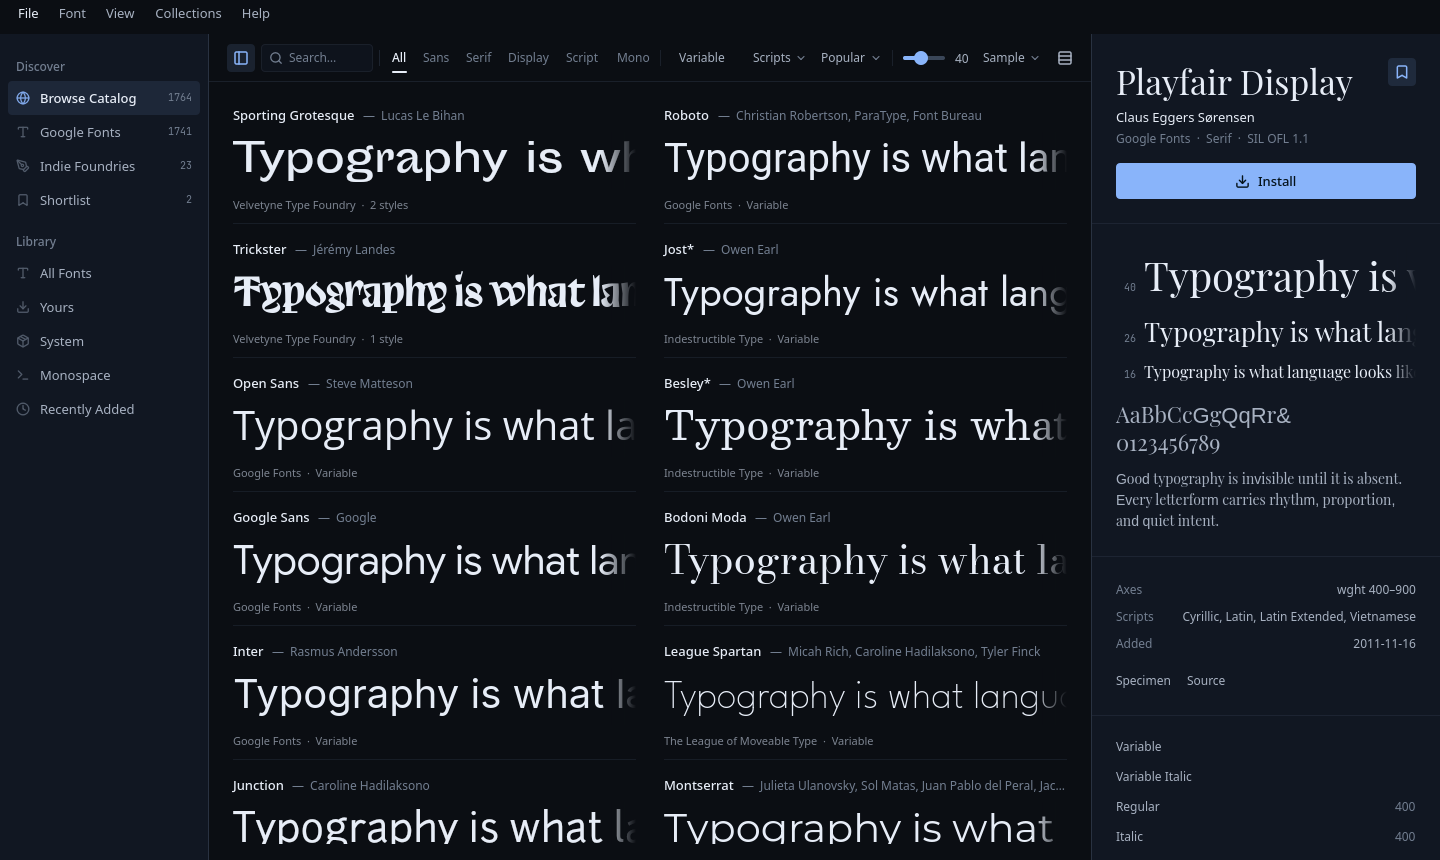
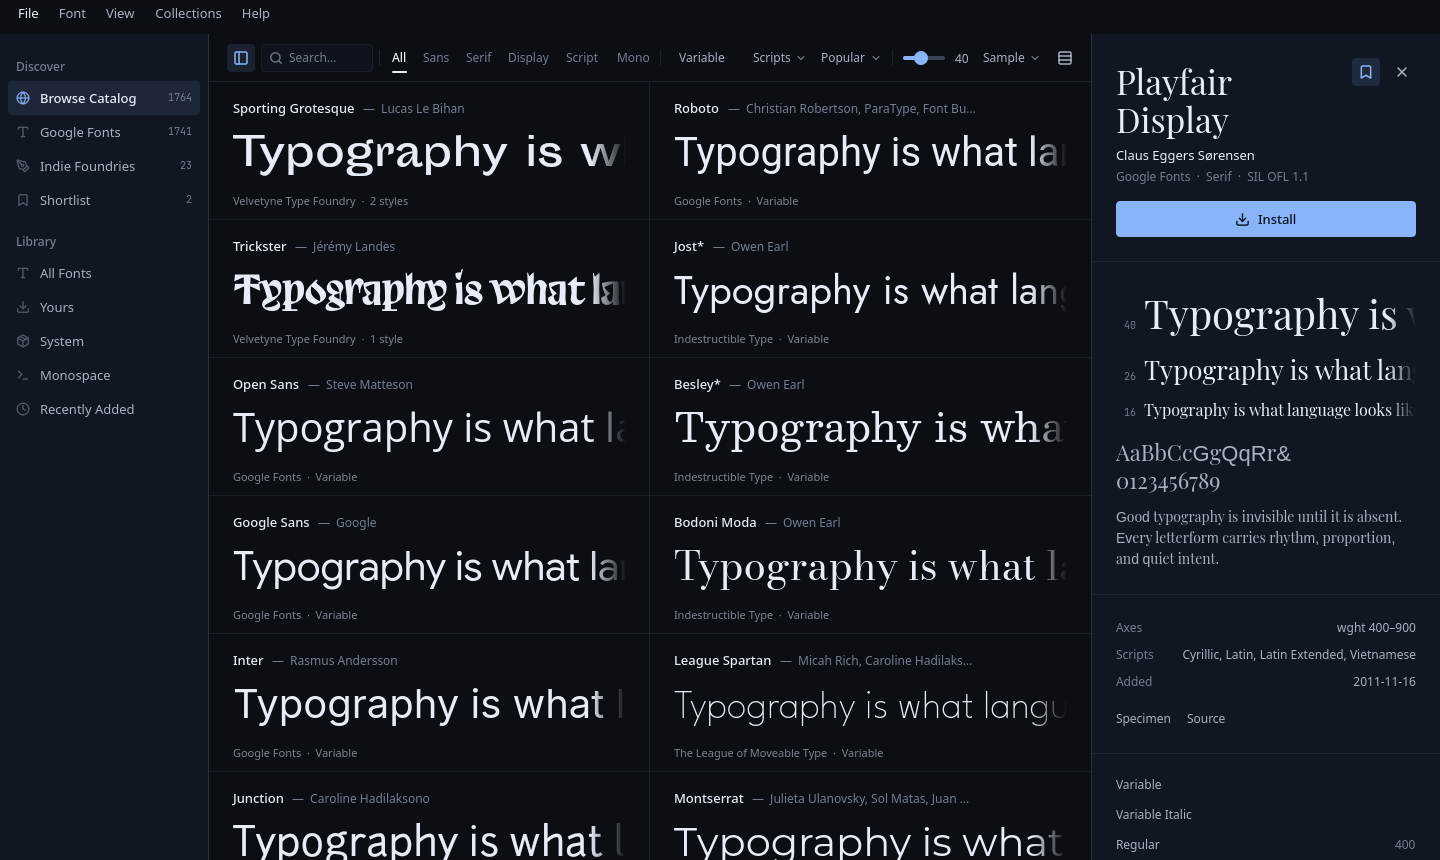
Eliminate hover/selection jump, collapse empty inspector, edge-to-edge cells, deduplicate weights

diff --git a/src/CatalogView.qml b/src/CatalogView.qml
@@ -373,27 +373,21 @@ Rectangle {
             }
         }
 
-        // ── Editorial specimen sheet (hairline-ruled, shared baselines) ─────
+        // ── Editorial specimen grid (edge-to-edge Swiss cells, zero hover jump) ─
         Item {
             Layout.fillWidth: true
             Layout.fillHeight: true
 
-            readonly property int gutter: 28
-
             GridView {
                 id: grid
                 anchors.fill: parent
-                anchors.leftMargin: Theme.s5 - parent.gutter / 2
-                anchors.rightMargin: Theme.s5 - parent.gutter / 2
-                anchors.topMargin: Theme.s2
-                anchors.bottomMargin: Theme.s4
                 clip: true
                 model: catalog.model
                 readonly property int columns: root.layoutMode === "list" ? 1 : Math.max(1, Math.floor(width / 430))
                 cellWidth: Math.floor(width / columns)
                 cellHeight: root.layoutMode === "list"
                     ? Math.max(144, Math.round(root.previewSize * 1.15 * 2 + 80))
-                    : Math.max(134, Math.round(root.previewSize * 1.15 + 88))
+                    : Math.max(138, Math.round(root.previewSize * 1.15 + 92))
                 cacheBuffer: cellHeight
                 boundsBehavior: Flickable.StopAtBounds
                 ScrollBar.vertical: ScrollBar {}
@@ -430,50 +424,49 @@ Rectangle {
                     }
                     readonly property bool faceReady: faceLoader.item !== null && faceLoader.item.status === FontLoader.Ready
                     readonly property bool selected: catalog.selectedId === cell.id
+                    readonly property bool hasRightNeighbor: (cell.index % grid.columns) < (grid.columns - 1)
 
-                    // Quiet hairline-ruled editorial cell (no rounded card box)
+                    // Edge-to-edge cell surface: calm tint on hover/selection, no borders shifting layout
                     Rectangle {
                         id: surface
                         anchors.fill: parent
-                        anchors.leftMargin: 14
-                        anchors.rightMargin: 14
-                        color: cell.selected ? Theme.withAlpha(Theme.textPrimary, 0.045)
-                             : cellHover.hovered ? Theme.withAlpha(Theme.textPrimary, 0.025) : "transparent"
+                        color: cell.selected ? Theme.withAlpha(Theme.accent, 0.08)
+                             : cellHover.hovered ? Theme.withAlpha(Theme.textPrimary, 0.028) : "transparent"
 
                         Behavior on color { ColorAnimation { duration: Theme.dFast } }
 
-                        // Subtle left accent bar only when selected
-                        Rectangle {
-                            visible: cell.selected
-                            anchors.left: parent.left
-                            anchors.top: parent.top
-                            anchors.bottom: parent.bottom
-                            anchors.topMargin: Theme.s4
-                            anchors.bottomMargin: Theme.s4
-                            width: 2
-                            color: Theme.accent
-                        }
-
-                        // Hairline rule at bottom
+                        // Edge-to-edge bottom hairline
                         Rectangle {
                             anchors.left: parent.left
                             anchors.right: parent.right
                             anchors.bottom: parent.bottom
                             height: Theme.hairline
-                            color: cell.selected ? Theme.withAlpha(Theme.borderStrong, 0.8) : Theme.withAlpha(Theme.border, 0.42)
+                            color: Theme.withAlpha(Theme.border, 0.45)
+                        }
+
+                        // Edge-to-edge vertical cell divider between columns
+                        Rectangle {
+                            visible: cell.hasRightNeighbor
+                            anchors.right: parent.right
+                            anchors.top: parent.top
+                            anchors.bottom: parent.bottom
+                            width: Theme.hairline
+                            color: Theme.withAlpha(Theme.border, 0.45)
                         }
 
                         HoverHandler { id: cellHover }
                         TapHandler { onTapped: catalog.selectFamily(cell.id) }
 
-                        // Header: single baseline with Family — Designer
+                        // Fixed-height header so hover actions never cause vertical jump
                         RowLayout {
                             id: cellHeader
                             anchors.left: parent.left
                             anchors.right: parent.right
                             anchors.top: parent.top
-                            anchors.leftMargin: cell.selected ? Theme.s3 : 0
-                            anchors.topMargin: Theme.s4
+                            anchors.leftMargin: Theme.s5
+                            anchors.rightMargin: Theme.s4
+                            anchors.topMargin: Theme.s3
+                            height: 28
                             spacing: Theme.s2
 
                             Text {
@@ -483,7 +476,7 @@ Rectangle {
                                 font.family: Theme.fontFamily
                                 font.pixelSize: Theme.fsControl
                                 font.weight: Font.Medium
-                                Layout.alignment: Qt.AlignBaseline
+                                Layout.alignment: Qt.AlignVCenter
                             }
 
                             Text {
@@ -495,16 +488,19 @@ Rectangle {
                                 color: Theme.textMuted
                                 font.family: Theme.fontFamily
                                 font.pixelSize: Theme.fsLabel
-                                Layout.alignment: Qt.AlignBaseline
+                                Layout.alignment: Qt.AlignVCenter
                             }
 
-                            // Hover/selected actions only — calm gallery at rest
+                            // Opacity-only reveal so text never reflows or jumps on hover
                             RowLayout {
                                 spacing: Theme.s1
-                                visible: cellHover.hovered || cell.selected || cell.installed || cell.shortlisted || cell.installing
+                                opacity: (cellHover.hovered || cell.selected || cell.installed || cell.shortlisted || cell.installing) ? 1.0 : 0.0
+                                enabled: opacity > 0
+                                Behavior on opacity { NumberAnimation { duration: Theme.dFast } }
 
                                 ToolButton {
-                                    visible: cellHover.hovered || cell.selected || cell.shortlisted
+                                    opacity: (cellHover.hovered || cell.selected || cell.shortlisted) ? 1.0 : 0.0
+                                    enabled: opacity > 0
                                     icon.name: "bookmark"
                                     checked: cell.shortlisted
                                     onClicked: catalog.toggleShortlist(cell.id)
@@ -513,7 +509,7 @@ Rectangle {
                                 }
 
                                 Icon {
-                                    visible: cell.installed && !cellHover.hovered && !cell.selected
+                                    visible: cell.installed
                                     name: "check"
                                     size: 14
                                     color: Theme.success
@@ -521,10 +517,11 @@ Rectangle {
 
                                 Button {
                                     objectName: "cardInstall_" + cell.id
-                                    visible: (cellHover.hovered || cell.selected || cell.installing) && !cell.installed
+                                    visible: !cell.installed
+                                    opacity: (cellHover.hovered || cell.selected || cell.installing) ? 1.0 : 0.0
+                                    enabled: opacity > 0 && !cell.installing
                                     flat: true
                                     implicitHeight: 24
-                                    enabled: !cell.installing
                                     text: cell.installing ? qsTr("Installing…") : qsTr("Install")
                                     font.pixelSize: Theme.fsLabel
                                     onClicked: catalog.installFamily(cell.id, true, [])
@@ -540,12 +537,13 @@ Rectangle {
                             anchors.right: parent.right
                             anchors.top: cellHeader.bottom
                             anchors.bottom: cellFooter.top
-                            anchors.leftMargin: cell.selected ? Theme.s3 : 0
-                            anchors.topMargin: Theme.s2
+                            anchors.leftMargin: Theme.s5
+                            anchors.rightMargin: Theme.s5
+                            anchors.topMargin: Theme.s1
                             anchors.bottomMargin: Theme.s2
                             clip: true
 
-                            // Exact shared baseline coordinate for every card in a row
+                            // Exact shared baseline coordinate for every cell in a row
                             Item {
                                 id: sharedBaseline
                                 anchors.left: parent.left
@@ -593,18 +591,19 @@ Rectangle {
                                 gradient: Gradient {
                                     orientation: Gradient.Horizontal
                                     GradientStop { position: 0.0; color: "transparent" }
-                                    GradientStop { position: 1.0; color: Theme.windowBg }
+                                    GradientStop { position: 1.0; color: cell.selected ? Qt.tint(Theme.windowBg, Theme.withAlpha(Theme.accent, 0.08)) : Theme.windowBg }
                                 }
                             }
                         }
 
-                        // Quiet single-line provenance footer (legible 11px)
+                        // Quiet single-line provenance footer
                         Text {
                             id: cellFooter
                             anchors.left: parent.left
                             anchors.right: parent.right
                             anchors.bottom: parent.bottom
-                            anchors.leftMargin: cell.selected ? Theme.s3 : 0
+                            anchors.leftMargin: Theme.s5
+                            anchors.rightMargin: Theme.s5
                             anchors.bottomMargin: Theme.s3
                             text: (cell.source === "google" ? "Google Fonts" : cell.sourceLabel)
                                   + "  ·  "

diff --git a/src/Main.qml b/src/Main.qml
@@ -106,6 +106,7 @@ ApplicationWindow {
     Shortcut { sequence: "Escape"; context: Qt.ApplicationShortcut; enabled: !win.dialogOpen
                onActivated: {
                    if (backend.staged || backend.staging) { backend.clearStage(); backend.selectFirst(); return }
+                   if (win.inDiscover && catalog.selectedId !== "") { catalog.selectFamily(""); return }
                    if (backend.filter !== "") { backend.filter = ""; searchField.text = ""; return }
                    if (win.textEntryFocused) rail.forceActiveFocus()
                } }
@@ -406,7 +407,7 @@ ApplicationWindow {
             }
             Rectangle { visible: win.sidebarOpen; implicitWidth: Theme.hairline; Layout.fillHeight: true; color: Theme.border }
 
-            // ── Discover mode: Open-source catalog + Attribution inspector ─
+            // ── Discover mode: Open-source catalog + collapsible inspector ─
             CatalogView {
                 id: catalogView
                 visible: win.inDiscover
@@ -415,10 +416,10 @@ ApplicationWindow {
                 Layout.fillWidth: true
                 Layout.fillHeight: true
             }
-            Rectangle { visible: win.inDiscover; implicitWidth: Theme.hairline; Layout.fillHeight: true; color: Theme.border }
+            Rectangle { visible: win.inDiscover && catalog.selectedId !== ""; implicitWidth: Theme.hairline; Layout.fillHeight: true; color: Theme.border }
             CatalogInspector {
                 id: catalogInspector
-                visible: win.inDiscover
+                visible: win.inDiscover && catalog.selectedId !== ""
                 Layout.preferredWidth: Theme.wInspector + 28
                 Layout.minimumWidth: Theme.wInspectorMin
                 Layout.fillHeight: true

diff --git a/src/CatalogInspector.qml b/src/CatalogInspector.qml
@@ -166,6 +166,14 @@ Rectangle {
                             ToolTip.visible: hovered; ToolTip.delay: Theme.tooltipDelay
                             ToolTip.text: (panel.fam.shortlisted ?? false) ? qsTr("Remove from Shortlist") : qsTr("Shortlist")
                         }
+                        ToolButton {
+                            Layout.alignment: Qt.AlignTop
+                            flat: true
+                            icon.name: "x"
+                            onClicked: catalog.selectFamily("")
+                            ToolTip.visible: hovered; ToolTip.delay: Theme.tooltipDelay
+                            ToolTip.text: qsTr("Close  Esc")
+                        }
                     }
 
                     Label {

diff --git a/src/catalog.cpp b/src/catalog.cpp
@@ -432,6 +432,35 @@ bool Catalog::parseGoogleDownloadManifest(const QByteArray &json, QList<CatalogF
             files->append(cf);
         }
         // Sort variable files first, then by weight ascending, roman before italic.
+        // Deduplicate static files that share the same (weight, italic) across
+        // optical sizes (e.g. 18pt/24pt/28pt) or condensed/expanded variants,
+        // preferring the standard upright/normal-width cut.
+        auto staticScore = [](const QString &filename) -> int {
+            const QString lower = filename.toLower();
+            int penalty = 0;
+            if (lower.contains(QStringLiteral("condensed")) || lower.contains(QStringLiteral("narrow"))) penalty += 100;
+            if (lower.contains(QStringLiteral("expanded")) || lower.contains(QStringLiteral("extended"))) penalty += 100;
+            if (lower.contains(QStringLiteral("semi")) && lower.contains(QStringLiteral("cond"))) penalty += 50;
+            if (lower.contains(QStringLiteral("pt"))) penalty += 10;
+            return penalty;
+        };
+
+        QList<CatalogFile> vars;
+        QHash<int, CatalogFile> bestStatic;
+        for (const CatalogFile &cf : *files) {
+            if (cf.variable) {
+                vars.append(cf);
+            } else {
+                const int key = cf.weight * 2 + (cf.italic ? 1 : 0);
+                if (!bestStatic.contains(key) || staticScore(cf.filename) < staticScore(bestStatic.value(key).filename)) {
+                    bestStatic.insert(key, cf);
+                }
+            }
+        }
+        files->clear();
+        for (const CatalogFile &v : vars) files->append(v);
+        for (auto it = bestStatic.cbegin(); it != bestStatic.cend(); ++it) files->append(it.value());
+
         std::sort(files->begin(), files->end(), [](const CatalogFile &a, const CatalogFile &b) {
             if (a.variable != b.variable) return a.variable;
             if (a.weight != b.weight) return a.weight < b.weight;
